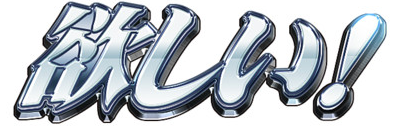
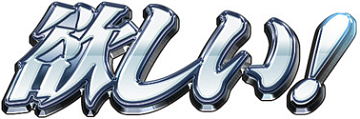
Support for original image

diff --git a/docs/main.js b/docs/main.js
@@ -16,9 +16,12 @@ window.onload = function () {
   textBoxes.bottom = document.getElementById("textboxBottom");
   ctx = canvas.getContext('2d');
   ctx.lineJoin = 'round';
-  ctx.setTransform(1,0,-0.4,1,0,0);
-};
 
+  var radios = document.querySelectorAll('input[type=radio][name="draw_mode"]');
+  Array.prototype.forEach.call(radios, function (radio) {
+    radio.addEventListener('change', changeHandler);
+  });
+};
 
 function onDown(e) {
   dragging = true;
@@ -30,17 +33,43 @@ function onMove(e) {
   if (dragging) {
     var dx = e.clientX - drag.x0;
     var dy = e.clientY - drag.y0;
-    redrawBottom(offset.bottom.x + dx);
+    var x = offset.bottom.x + dx;
+    if (getDrawMode() === "image") {
+      redrawImage(x);
+    } else {
+      redrawBottom(x);
+    }
   }
-  if (offset.bottom.y <= e.clientY) {
+  if (canvas.getBoundingClientRect().top + offset.bottom.y <= e.clientY
+      && e.clientY <= canvas.getBoundingClientRect().top + 290) {
     document.body.style.cursor = "move";
+  } else {
+    document.body.style.cursor = "default"
   }
 }
 
 function onUp(e) {
-  dragging = false; // ドラッグ終了
+  dragging = false;
   var dx = e.clientX - drag.x0;
   offset.bottom.x += dx;
+}
+
+function changeHandler(e) {
+  if (this.value === 'image') {
+    document.getElementById('textboxBottom').style.display = "none";
+    document.getElementById('labelBottom').style.display = "none";
+    redrawImage();
+    redrawImage();
+  } else {
+    document.getElementById('textboxBottom').style.display = "inline";
+    document.getElementById('labelBottom').style.display = "inline";
+    redrawBottom();
+  }
+}
+
+function getDrawMode() {
+  var drawMode = document.querySelector('input[name="draw_mode"]:checked').value;
+  return drawMode;
 }
 
 function saveImage() {
@@ -64,6 +93,7 @@ function saveImageData(imagedata) {
 }
 
 function redrawTop() {
+  ctx.setTransform(1,0,-0.4,1,0,0);
   ctx.font = '100px notobk';
 
   ctx.clearRect(0, 0, canvas.width, canvas.height/2);
@@ -152,13 +182,18 @@ function redrawTop() {
 
   actualWidth.top = ctx.measureText(text).width + posx;
 
-  redrawBottom();
+  if (getDrawMode() === "image") {
+    redrawImage();
+  } else {
+    redrawbottom();
+  }
 }
 
-function redrawBottom(offsetX, offsetY) {
+function redrawBottom(offsetX) {
   var offsetX = offsetX || offset.bottom.x;
   var offsetY = offset.bottom.y;
 
+  ctx.setTransform(1, 0, -0.4, 1, 0, 0);
   ctx.font = '100px notoserifbk';
 
   ctx.clearRect(0, 130, canvas.width, canvas.height/2);
@@ -237,14 +272,15 @@ function redrawBottom(offsetX, offsetY) {
 
 }
 
-function redrawImage() {
-  var offsetX = 250;
-  var offsetY = 130;
-
-  ctx.clearRect(0+offsetX, 0+offsetY, canvas.width, canvas.height/2);
+function redrawImage(offsetX) {
+  var offsetX = offsetX || offset.bottom.x;
+  var offsetY = offset.bottom.y;
   var posx = 70 + offsetX;
-  var posy = 100 + offsetY;
+  var posy = 0 + offsetY;
+  ctx.clearRect(0, 130, canvas.width, canvas.height/2);
 
-
-  
+  var image = new Image();
+  image.src = "hoshii.png";
+  ctx.setTransform(1,0,0,1,0,0);
+  ctx.drawImage(image, posx + 5, posy + 2);
 }
